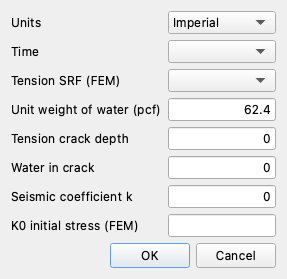
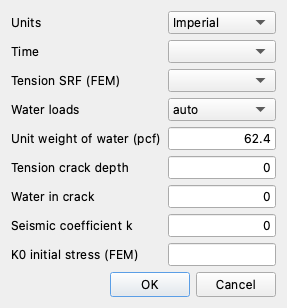
ui(studio): the Global dialog gains Water loads, and its Time list learns yr
Owner-approved orphan fix: water_loads had no Studio control anywhere —
the document layer set it only during imports, so flipping D23 required
Excel. The Global parameters dialog now carries the auto/manual selector
with the double-count warning as its tooltip, and the writer already
persists the choice. The audit also caught Studio's own Time dropdown
missing yr (a stored yr only survived as an appended token; a fresh model
could not pick it) — the list now matches the template's. Dialog driven
offscreen for both; affected captures regenerate; SEEP-1's vertex step
offers paste-the-table before type-it-six-times; the template docs name
the selector's Studio home.

Claude-Session: https://claude.ai/code/session_01XjjT2aBxw8gY7EFdpoUcpj

diff --git a/studio/editors.py b/studio/editors.py
@@ -2613,11 +2613,19 @@ _UNIT_SYSTEM_ITEMS = [("", None), ("SI", "si"), ("Imperial", "imperial")]
 
 # Time selector legend tokens, verbatim from the v18 template list $D$54:$D$57
 # ("sec", not "s"). Blank = time unit undeclared.
-_TIME_UNIT_ITEMS = ["", "sec", "min", "hr", "day"]
+_TIME_UNIT_ITEMS = ["", "sec", "min", "hr", "day", "yr"]
 # Tension SRF (v19, main!D17) is a TRI-STATE: blank means "unspecified", which is
 # not the same as NO. Blank leaves the engine default (reduce the cap) in force and
 # keeps the saved file silent on the question; NO pins the static cap.
 _TENSION_SRF_ITEMS = [("", None), ("YES", True), ("NO", False)]
+
+WATER_LOADS_HELP = (
+    "Who supplies the weight of water standing on the slope. auto derives the "
+    "ponded-water load at solve time from the model's own water definition (the "
+    "seepage boundary conditions, otherwise the piezometric line); manual leaves "
+    "it to the dloads sheets. Switching a model that already draws its reservoir "
+    "as load blocks to auto counts the water twice -- the Model checks warn when "
+    "that happens.")
 
 K0_HELP = (
     "At-rest lateral earth pressure coefficient K0 for the FEM initial stress "
@@ -2690,6 +2698,19 @@ class GlobalParamsDialog(QDialog):
         self._tension_srf.setToolTip(TENSION_SRF_HELP)
         form.addRow("Tension SRF (FEM)", self._tension_srf)
 
+        # Water loads (main!D23) -- auto derives the ponded-water load from
+        # the model's own water definition; manual leaves it on the dloads
+        # sheets. The loader always resolves the mode to one of the two, so
+        # the combo carries no blank entry.
+        self._water_loads = QComboBox()
+        self._water_loads.addItems(["auto", "manual"])
+        _cur_wl = str(values.get("water_loads") or "auto").strip().lower()
+        if _cur_wl not in ("auto", "manual"):
+            _cur_wl = "auto"
+        self._water_loads.setCurrentText(_cur_wl)
+        self._water_loads.setToolTip(WATER_LOADS_HELP)
+        form.addRow("Water loads", self._water_loads)
+
         # Numeric fields (gamma_water first — the Units autofill targets it). The
         # header carries a unit suffix ("Unit weight of water (pcf)") when the project
         # declares a system; unlabeled otherwise. Reflects the STORED declaration at
@@ -2730,6 +2751,7 @@ class GlobalParamsDialog(QDialog):
         t = self._time.currentText().strip()
         out["time_unit"] = t or None
         out["tension_srf"] = _TENSION_SRF_ITEMS[self._tension_srf.currentIndex()][1]
+        out["water_loads"] = self._water_loads.currentText()
         return out
 
 

diff --git a/docs/usage/input_template.md b/docs/usage/input_template.md
@@ -97,7 +97,7 @@ A choice you make in a Studio dialog always wins over the value in the file.
 - **Mesh element type** (`tri3`, `tri6`, `quad4`, `quad8`, or `quad9`) — **[–]**: the element type the Build Mesh dialog opens on. Quadratic elements (`tri6`, `quad8`, `quad9`) are strongly preferred for FEM/SSRM; the linear ones lock volumetrically and overestimate the factor of safety.
 - **Mesh target size** — **[L]**: the target element size the Build Mesh dialog opens on. Setting it also turns auto-sizing off, since a size in the file means the file meant that size.
 - **SSRM F min** / **SSRM F max** — **[–]**: the strength-reduction bracket the SSRM search starts from. F min must be less than F max.
-- **Water loads** (`auto` or `manual`) — **[–]**: who supplies the weight of water standing on the slope. `auto` — what a new file carries — hands it to the engine, which derives the ponded-water load at solve time from the model's own water definition: the seepage boundary conditions wherever a seepage analysis is defined, otherwise the piezometric line. The two dloads sheets then carry **non-water** loads only — a surcharge, a footing, traffic — and the derived load is drawn on every plot in its own color, since a load you did not type is the kind that needs to be more visible rather than less. `manual` leaves the water load to you on the dloads sheets. A blank cell means `auto` in a version-22-or-newer file and `manual` in every older one, and that is a correctness requirement rather than a preference: an older file already carries its water load typed in, and deriving a second one under it would count the reservoir twice. Use `manual` for a deliberate exception, and for a vendor-faithful transcription whose point is to reproduce another program's input exactly. See [Automatic water loads](preflight.md#automatic-water-loads).
+- **Water loads** (`auto` or `manual`) — **[–]**: who supplies the weight of water standing on the slope. `auto` — what a new file carries — hands it to the engine, which derives the ponded-water load at solve time from the model's own water definition: the seepage boundary conditions wherever a seepage analysis is defined, otherwise the piezometric line. The two dloads sheets then carry **non-water** loads only — a surcharge, a footing, traffic — and the derived load is drawn on every plot in its own color, since a load you did not type is the kind that needs to be more visible rather than less. `manual` leaves the water load to you on the dloads sheets. In Studio the same selector sits in the **Global parameters** dialog. A blank cell means `auto` in a version-22-or-newer file and `manual` in every older one, and that is a correctness requirement rather than a preference: an older file already carries its water load typed in, and deriving a second one under it would count the reservoir twice. Use `manual` for a deliberate exception, and for a vendor-faithful transcription whose point is to reproduce another program's input exactly. See [Automatic water loads](preflight.md#automatic-water-loads).
 - **Surface family** (`circular` or `non-circular`) — **[–]**: which failure-surface family a model that defines **both** a circular surface (the [circles](#worksheet-circles) sheet) and a non-circular one (the [non-circ](#worksheet-non-circ) sheet) actually means. Blank — what the template ships, and the normal state — means "whichever family the model defines", which is unambiguous for all but the rare file carrying both; there the circular surface is used and the non-circular one is ignored, and the [model checks](preflight.md) say so. Fill the cell (or answer the **Surface** selector in Studio's Run LEM dialog, which writes your choice here) and that answer travels with the file: the run, the plots and the next session all read the same one. A family named here is only honoured when the model actually defines it, so a value left behind by a surface you later deleted can never claim a surface that is not there.
 - **Side BC** (`rollers` or `fixed`) — **[–]**: how the FEM restrains the left and right truncation boundaries of the model. `rollers` (the default, and what every file that leaves this blank gets) fixes horizontal movement and leaves the face free to settle vertically. `fixed` clamps both directions. Rollers are the usual choice: a truncation boundary is an artificial cut through ground that continues, and the ground on the other side of it does not hold the face up. `fixed` adds shear restraint that ground does not have, and stiffens a domain truncated close to the slope; use it to reproduce a program that fixes its side boundaries. The bottom boundary is fully fixed either way.
 

diff --git a/docs/tutorials/seep01_sheetpile.md b/docs/tutorials/seep01_sheetpile.md
@@ -430,7 +430,8 @@ Click **Profile lines**, then **Add line**:
 1. Set **Max depth (bottom boundary elevation):** to `0`. This is an *elevation*,
    not a thickness: it places the impervious base 10 m below the ground surface.
 2. Set **Material:** to `1: soil`.
-3. **Add row** six times and enter the six vertices from the table above.
+3. Copy the two columns of the vertex table above and paste them into the
+   grid in one stroke — or **Add row** six times and type them.
 
 ![The profile lines editor](images/seep01_studio_profile.png)
 
